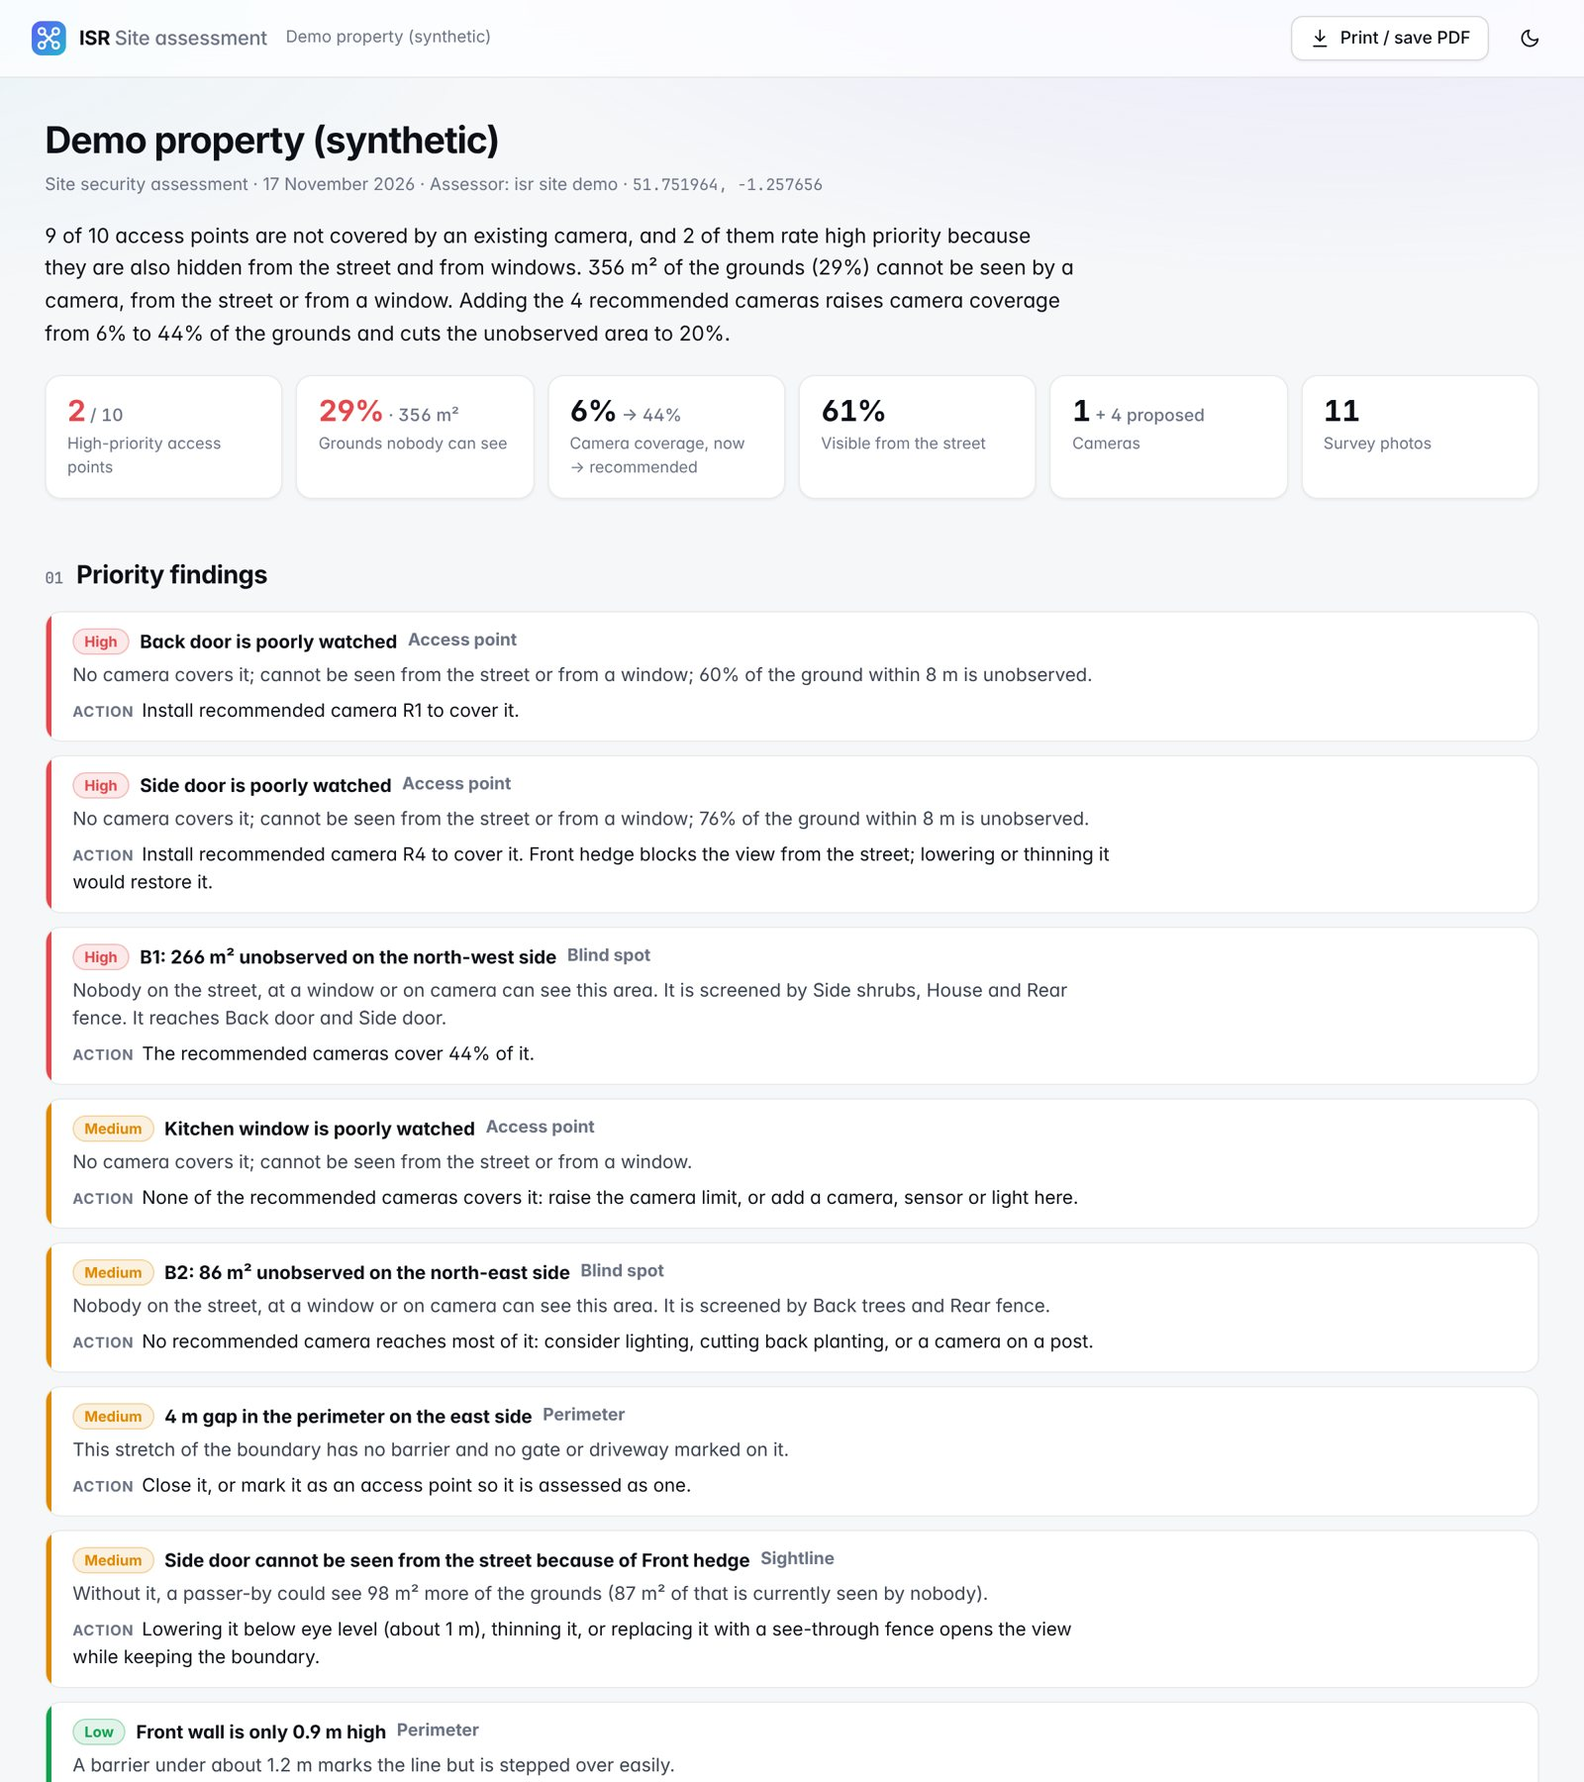
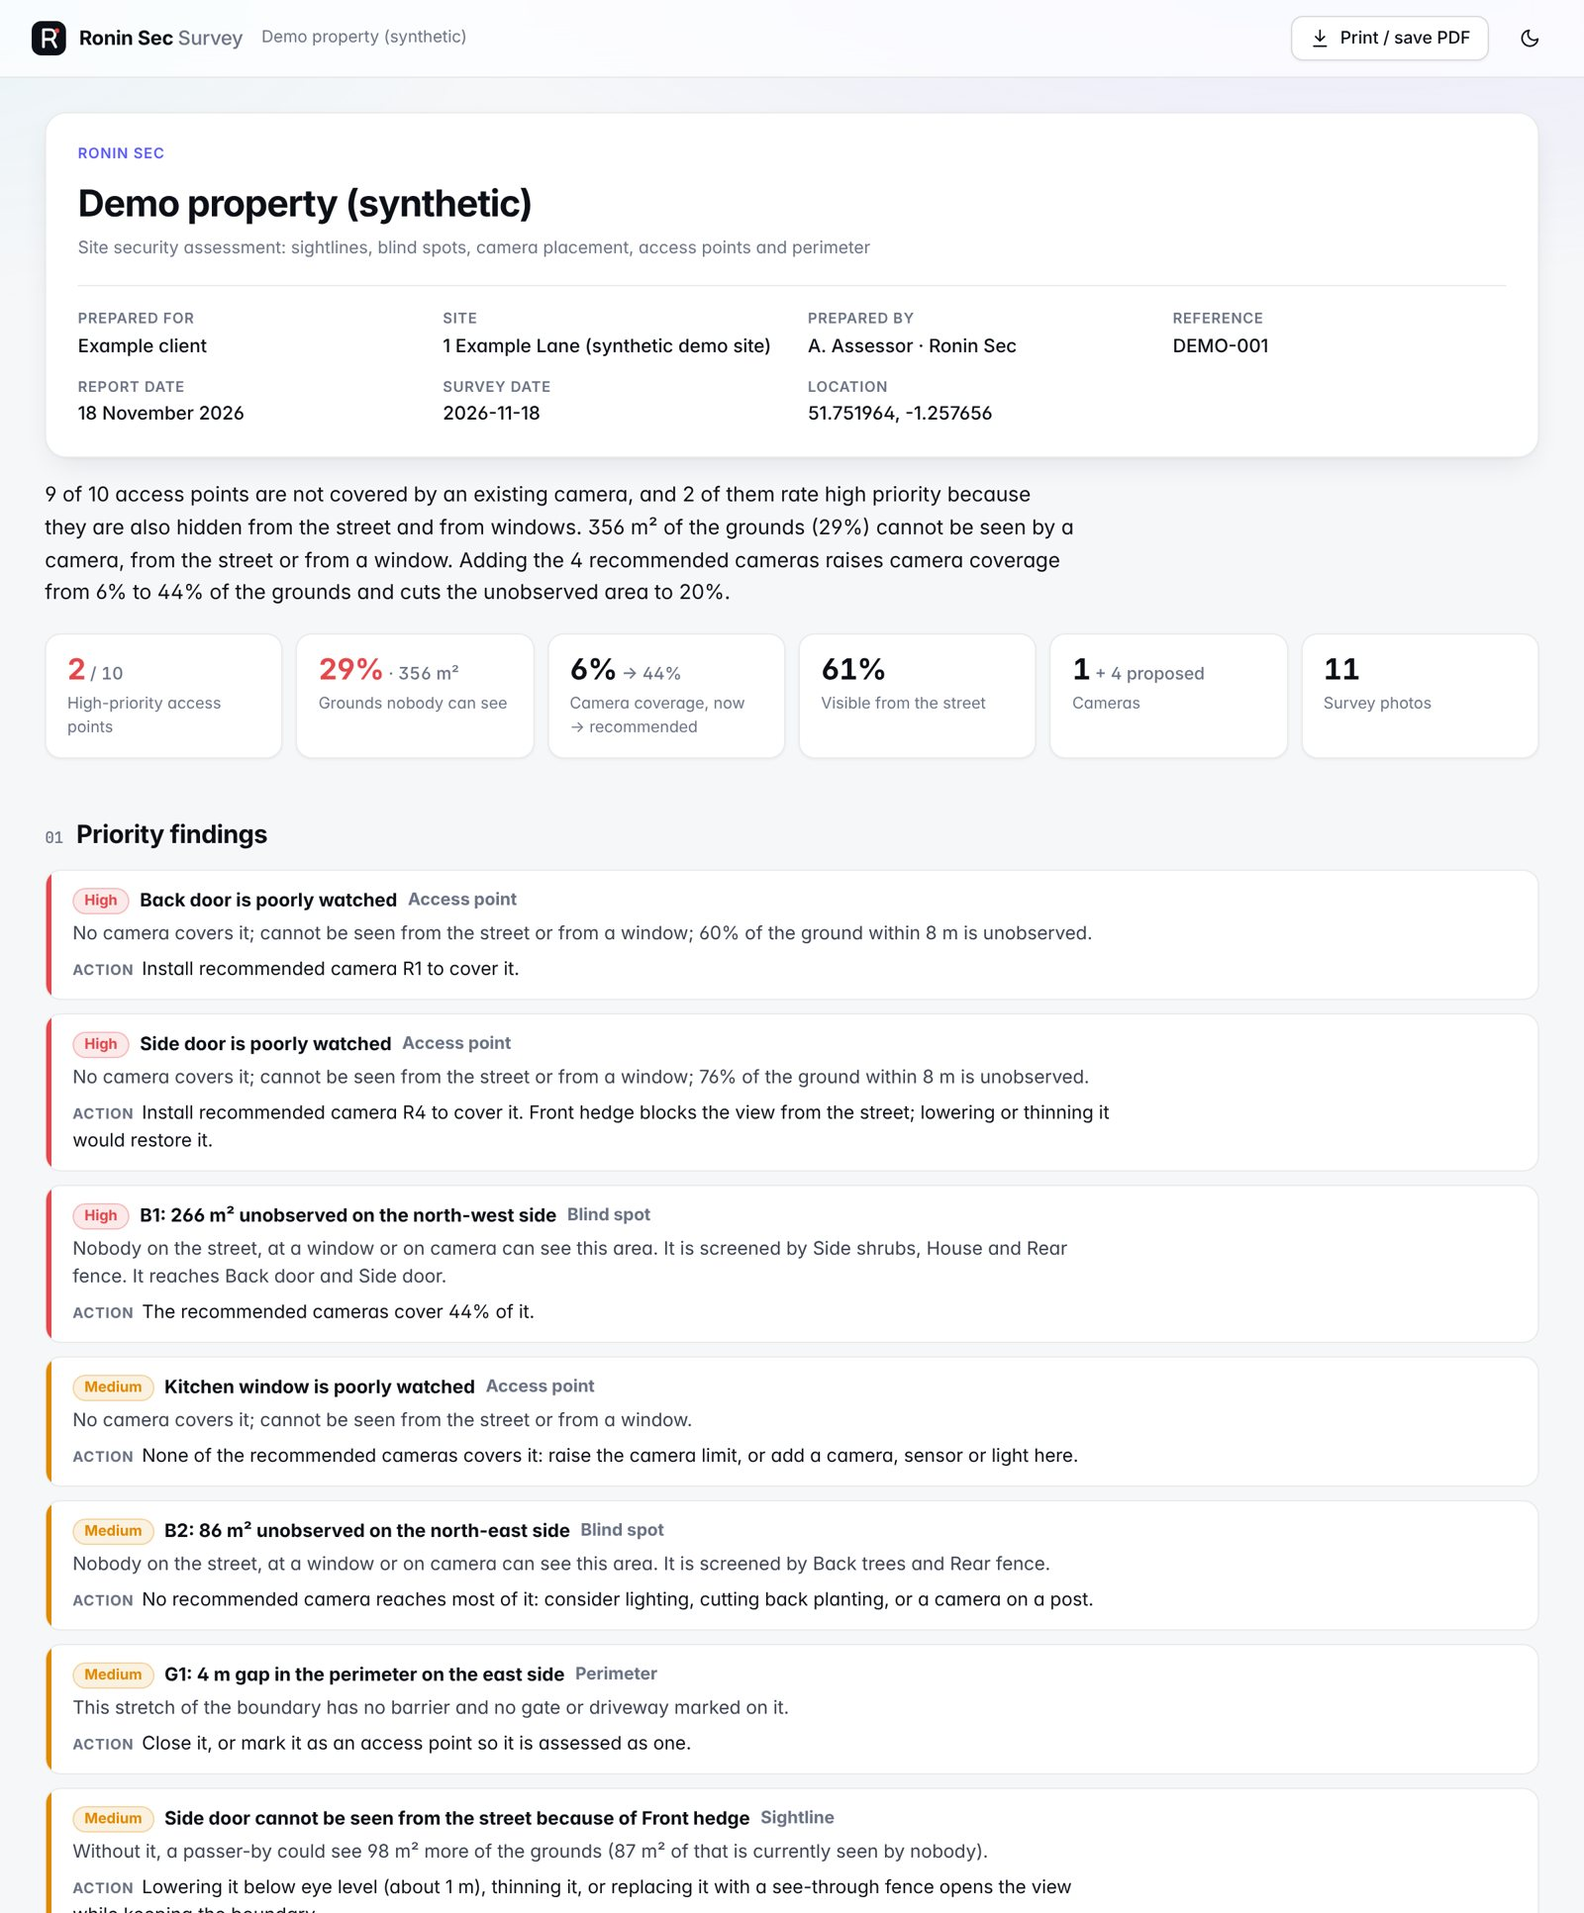
Brand the site assessment as Ronin Sec Survey
- editor and report carry the Ronin Sec name and mark; new projects are
  'Prepared by Ronin Sec' by default (editable per project)
- standalone 'survey' command (new / edit / report / demo); 'isr site'
  still works, and 'survey' remains an alias of 'new'
- README and screenshots updated

Claude-Session: https://claude.ai/code/session_01KpN253ihZSDuZ7tb2923ca

diff --git a/isr/site/editor.py b/isr/site/editor.py
@@ -8,7 +8,7 @@ from __future__ import annotations
 
 import json
 
-from ..ui import LOGO, page, theme_button
+from ..ui import page, theme_button
 from . import model as M
 
 CSS = r"""
@@ -87,7 +87,7 @@ body{display:flex;flex-direction:column;overflow:hidden}
 
 BODY = """
 <header class="topbar">
-  <div class="brand">__LOGO__<div class="brand-name">ISR <span>Site editor</span></div></div>
+  <div class="brand">__LOGO__<div class="brand-name">__BRAND__ <span>__APP__</span></div></div>
   <input id="name" aria-label="Site name" spellcheck="false">
   <div class="spacer"></div>
   <span id="status" role="status"></span>
@@ -475,7 +475,7 @@ function renderSettings() {
 }
 $("#p-settings").addEventListener("change", ev => { const t = ev.target;
   if (t.dataset.m) model[t.dataset.m] = t.value; else if (t.dataset.s) { const v = parseFloat(t.value); if (isFinite(v)) model.settings[t.dataset.s] = v; } else return; schedule(50); });
-$("#name").addEventListener("change", ev => { model.name = ev.target.value.trim() || "Site"; document.title = model.name + " · Site editor"; schedule(50); });
+$("#name").addEventListener("change", ev => { model.name = ev.target.value.trim() || "Site"; document.title = model.name + " · " + C.app; schedule(50); });
 
 function openPhoto(id) { const p = model.photos.find(p => p.id === id); if (!p) return; const lb = $("#lb");
   lb.querySelector("img").src = "/files/" + p.file; lb.querySelector("div div").textContent = p.name + (p.heading != null ? " · looking " + Math.round(p.heading) + "°" : "");
@@ -498,7 +498,7 @@ $("#layers").innerHTML = LAYERS.map(l => `<label><input type="checkbox" data-l="
 $("#layers").addEventListener("change", ev => { layers[ev.target.dataset.l] = ev.target.checked; renderBase(); render(); });
 (async () => {
   try { model = await (await fetch("/api/site")).json(); } catch (e) { setStatus("Cannot load the project", true); return; }
-  $("#name").value = model.name; document.title = model.name + " · Site editor";
+  $("#name").value = model.name; document.title = model.name + " · " + C.app;
   hist = [JSON.stringify(model.features)]; hi = 0;
   setTool("select"); renderBase(); fit(); renderResults(); renderProps(); renderSettings(); analyse();
 })();
@@ -507,11 +507,13 @@ $("#layers").addEventListener("change", ev => { layers[ev.target.dataset.l] = ev
 
 def editor_html() -> str:
     data = {
+        "app": f"{M.BRAND} {M.APP}",
         "geometry": M.GEOMETRY,
         "kind": M.KIND_LABEL,
         "barrier": M.BARRIER_TYPES,
         "access": {k: v[0] for k, v in M.ACCESS_TYPES.items()},
         "height": M.DEFAULT_HEIGHT,
     }
-    body = BODY.replace("__LOGO__", LOGO).replace("__THEME__", theme_button())
-    return page("Site editor", body, CSS, JS, json.loads(json.dumps(data)), default_theme="dark")
+    body = (BODY.replace("__LOGO__", M.BRAND_LOGO).replace("__THEME__", theme_button())
+            .replace("__BRAND__", M.BRAND).replace("__APP__", M.APP))
+    return page(f"{M.BRAND} {M.APP}", body, CSS, JS, json.loads(json.dumps(data)), default_theme="dark")

diff --git a/isr/cli.py b/isr/cli.py
@@ -263,7 +263,7 @@ def cmd_enhance(a) -> int:
 def _project(a) -> Path | None:
     d = Path(a.project).expanduser()
     if not (d / "site.json").exists():
-        print(f"error: {d} is not a site project (no site.json). Create one with: isr site survey PHOTOS -o {d}",
+        print(f"error: {d} is not a survey project (no site.json). Create one with: survey new PHOTOS -o {d}",
               file=sys.stderr)
         return None
     return d
@@ -272,7 +272,7 @@ def _project(a) -> Path | None:
 def cmd_site(a) -> int:
     from .site import model as SM
 
-    if a.action == "survey":
+    if a.action in ("new", "survey"):
         from .site.survey import run_survey
 
         src = Path(a.source).expanduser()
@@ -292,7 +292,7 @@ def cmd_site(a) -> int:
                   "    walls meet the ground. One photo taken straight down from above the site avoids this.")
         print(f"Project: {out}")
         if a.no_edit:
-            print(f"Next: isr site edit {out}")
+            print(f"Next: survey edit {out}")
             return 0
         a.project = str(out)
         a.action = "edit"
@@ -308,7 +308,7 @@ def cmd_site(a) -> int:
         if a.open:
             webbrowser.open(report.resolve().as_uri())
         if not a.edit:
-            print(f"Open it in the editor with: isr site edit {out}")
+            print(f"Open it in the editor with: survey edit {out}")
             return 0
         a.project, a.no_browser = str(out), False
 
@@ -449,7 +449,7 @@ def build_parser() -> argparse.ArgumentParser:
 
     si = sub.add_parser("site", help="site security assessment: survey photos -> site plan -> report")
     ss = si.add_subparsers(dest="action", required=True)
-    sv = ss.add_parser("survey", help="read hand-flown drone and walk-round photos, build the base map and open the editor",
+    sv = ss.add_parser("new", aliases=["survey"], help="read hand-flown drone and walk-round photos, build the base map and open the editor",
                        formatter_class=argparse.ArgumentDefaultsHelpFormatter)
     sv.add_argument("source", help="folder of photos (searched recursively)")
     sv.add_argument("-o", "--output", help="project folder (default ./site_<timestamp>); re-run to add photos")
@@ -482,6 +482,11 @@ def build_parser() -> argparse.ArgumentParser:
 def main(argv=None) -> int:
     a = build_parser().parse_args(argv)
     return a.func(a) or 0
+
+
+def survey_main(argv=None) -> int:
+    """The ``survey`` command: Ronin Sec Survey on its own, the same as ``isr site ...``."""
+    return main(["site", *(sys.argv[1:] if argv is None else argv)])
 
 
 if __name__ == "__main__":

diff --git a/isr/site/report.py b/isr/site/report.py
@@ -15,7 +15,7 @@ from pathlib import Path
 from xml.sax.saxutils import escape as x
 
 from ..geo import from_local
-from ..ui import LOGO, icon, page, theme_button
+from ..ui import icon, page, theme_button
 from . import model as M
 from .analysis import Analysis
 
@@ -305,11 +305,11 @@ def build_html(model: dict, an: Analysis) -> str:
     H = lambda t: f'<h2><span class="n">{next(sec):02d}</span>{t}</h2>'  # noqa: E731
     b = []
 
-    b.append(f'<header class="topbar"><div class="brand">{LOGO}<div class="brand-name">ISR <span>Site assessment</span></div></div>'
+    b.append(f'<header class="topbar"><div class="brand">{M.BRAND_LOGO}<div class="brand-name">{M.BRAND} <span>{M.APP}</span></div></div>'
              f'<div class="crumb">{h(model["name"])}</div><div class="spacer"></div>'
              f'<button class="btn" onclick="print()">{icon("download")}<span class="lbl">Print / save PDF</span></button>'
              f'{theme_button()}</header><div class="wrap">')
-    brand = h(model["company"]) if model.get("company") else "Site security assessment"
+    brand = h(model.get("company") or M.BRAND)
     b.append(f'<div class="cover"><div class="label">{brand}</div><h1>{h(model["name"])}</h1>'
              f'<div class="sub">Site security assessment: sightlines, blind spots, camera placement, access points '
              f'and perimeter</div><dl class="front">')
@@ -546,7 +546,8 @@ for being invisible from both the street and windows (2), and for unobserved gro
     b.append(f'<p class="foot">{"Prepared by " + h(by) + (" for " + h(model["client"]) if model.get("client") else "") + ". " if by else ""}'
              'This report describes what could be observed and measured from a photographic survey on the date shown. '
              'It identifies where the site is exposed and how that could be reduced; it is not a guarantee against '
-             'intrusion, and the recommendations should be confirmed on site before work is ordered.</p></div>')
+             'intrusion, and the recommendations should be confirmed on site before work is ordered. '
+             f'Produced with {M.BRAND} {M.APP}.</p></div>')
     return page(f"Site assessment: {h(model['name'])}", "".join(b), CSS, "", None, default_theme="light")
 
 

diff --git a/tests/test_site.py b/tests/test_site.py
@@ -99,6 +99,17 @@ def test_perimeter_gap_found():
     assert per["gaps"][0]["declared"] == "Pedestrian gate 1"
 
 
+def test_survey_command_and_default_branding(tmp_path, capsys):
+    from isr.cli import survey_main
+
+    assert M.new_model("x", (0, 0), (0, 0, 1, 1))["company"] == "Ronin Sec"
+    demo.write_obliques(tmp_path / "shots")
+    assert survey_main(["new", str(tmp_path / "shots"), "-o", str(tmp_path / "p"), "--no-edit"]) == 0
+    assert survey_main(["report", str(tmp_path / "p")]) == 0
+    assert "Ronin Sec" in (tmp_path / "p" / "report.html").read_text()
+    assert survey_main(["report", str(tmp_path / "missing")]) == 2
+
+
 def test_empty_and_partial_models_do_not_crash():
     for feats in ([], [LOT], [{"kind": "access", "subtype": "door", "pts": [[0, 0]]}],
                   [{"kind": "street", "pts": [[-20, -25], [20, -25]]}],
@@ -243,7 +254,7 @@ def test_report_and_exports(project):
     html = report.read_text()
     assert "<script src" not in html and "http://" not in html.replace("http://www.w3.org", "")
     for needle in ("Priority findings", "Side door", "Camera placement", "basemap.jpg", "report_assets/blind.png",
-                   "Prepared for", "Example client", "DEMO-001", "Open and unmarked", ">G1<"):
+                   "Prepared for", "Example client", "DEMO-001", "Ronin Sec", "Open and unmarked", ">G1<"):
         assert needle in html
     gj = json.loads((out / "site.geojson").read_text())
     kinds = {f["properties"]["kind"] for f in gj["features"]}
@@ -294,7 +305,7 @@ def test_editor_server(project):
 
     try:
         code, page = call("/")
-        assert code == 200 and b"Site editor" in page
+        assert code == 200 and b"Ronin Sec" in page
         code, body = call("/api/site")
         site = json.loads(body)
         assert code == 200 and len(site["features"]) == len(model["features"])

diff --git a/isr/site/model.py b/isr/site/model.py
@@ -32,6 +32,15 @@ from pathlib import Path
 
 VERSION = 1
 
+# Branding of the editor and the report. "Prepared by" on a report defaults to BRAND and can be changed per project.
+BRAND = "Ronin Sec"
+APP = "Survey"
+BRAND_LOGO = ('<svg class="logo" width="26" height="26" viewBox="0 0 32 32" aria-hidden="true">'
+              '<rect width="32" height="32" rx="9" fill="#0d1117"/>'
+              '<path d="M11 24V8h6.2a4.6 4.6 0 0 1 1.5 8.95L22.5 24M11 17h6.2" fill="none" stroke="#fff" '
+              'stroke-width="2.6" stroke-linecap="round" stroke-linejoin="round"/>'
+              '<circle cx="23.5" cy="9" r="2.2" fill="#e5484d"/></svg>')
+
 DEFAULT_SETTINGS = {
     "cell_m": 0.5,  # analysis grid
     "camera_height_m": 2.7,  # mounting height for recommended cameras
@@ -70,7 +79,7 @@ DEFAULT_HEIGHT = {"building": 6.0, "vegetation": 3.0}
 
 
 def new_model(name: str, origin: tuple[float, float], bounds, basemap=None, photos=None) -> dict:
-    return {"version": VERSION, "name": name, "assessor": "", "notes": "",
+    return {"version": VERSION, "name": name, "assessor": "", "company": BRAND, "notes": "",
             "origin": {"lat": origin[0], "lon": origin[1]}, "bounds": [round(float(b), 2) for b in bounds],
             "basemap": basemap, "settings": dict(DEFAULT_SETTINGS), "features": [], "photos": photos or []}
 

diff --git a/isr/site/server.py b/isr/site/server.py
@@ -107,7 +107,7 @@ def make_server(project: Path, port: int = 8765) -> ThreadingHTTPServer:
 def serve(project: Path, port: int = 8765, open_browser: bool = True) -> None:
     srv = make_server(project, port)
     url = f"http://127.0.0.1:{srv.server_address[1]}/"
-    print(f"Site editor: {url}\nEverything you draw is saved to {Path(project) / 'site.json'}. Press Ctrl+C to stop.")
+    print(f"{M.BRAND} {M.APP} editor: {url}\nEverything you draw is saved to {Path(project) / 'site.json'}. Press Ctrl+C to stop.")
     if open_browser:
         import webbrowser
         threading.Timer(0.4, webbrowser.open, args=(url,)).start()

diff --git a/isr/site/demo.py b/isr/site/demo.py
@@ -268,7 +268,7 @@ def build_demo(out: Path, log=print) -> dict:
     model = run_survey(out / "source_photos", out, name="Demo property (synthetic)", log=log)
     model["features"] = demo_features()
     model["assessor"] = "A. Assessor"
-    model["company"] = "Example Security Surveys"
+    model["company"] = M.BRAND
     model["client"] = "Example client"
     model["address"] = "1 Example Lane (synthetic demo site)"
     model["reference"] = "DEMO-001"

diff --git a/README.md b/README.md
@@ -14,7 +14,7 @@ Offline field and studio tools for a Mavic 3 + DJI RC (the site assessment also 
 4. **`isr enhance`**: light, professional automatic touch-ups (white balance, dehaze, tone, clarity,
    vibrance, horizon straightening, sharpening) written to new files with all metadata kept.
 
-5. **`isr site`**: a site security assessment. Walk or fly a property, drop the photos in, trace the
+5. **`survey`** (Ronin Sec Survey): a site security assessment. Walk or fly a property, drop the photos in, trace the
    plan over the stitched aerial image, and get a report of sightlines, blind spots, camera
    placement and access points.
 
@@ -333,14 +333,16 @@ from the DNG in Lightroom or Capture One. Studio's ranking is still the fast way
 
 ---
 
-## Site security assessment
+## Survey: site security assessment
+
+**Ronin Sec Survey.** Installed as its own command, `survey` (the same thing as `isr site`).
 
 For a property you own or are responsible for: where can someone approach unseen, which doors and
 gates are unwatched, and where would cameras do the most good.
 
 ```bash
-isr site demo --edit            # a made-up property, to see how it works
-isr site survey E:\DCIM -o my_site --name "12 Mill Lane"
+survey demo --edit               # a made-up property, to see how it works
+survey new E:\DCIM -o my_site --name "12 Mill Lane"
 ```
 
 ![Site editor](docs/site_editor.jpg)
@@ -367,7 +369,7 @@ photo positions as a guide.
 
 ### 2. Draw the plan
 
-`isr site survey` builds the base map and opens the editor in your browser (a page served from
+`survey new` builds the base map and opens the editor in your browser (a page served from
 your own machine at `127.0.0.1`; nothing is uploaded). Trace what you see:
 
 | Tool | Key | Draw |
@@ -385,12 +387,12 @@ Double-click or `Enter` finishes a shape, `Esc` cancels, `Delete` removes the se
 to `site.json` and the findings on the right update as you draw, so you can try things: lower a
 hedge, move a camera, add a recommended camera to the plan and see what is still unseen.
 
-Re-run `isr site survey` on the same project folder to add photos; the plan is kept.
-`isr site edit my_site` reopens it later.
+Re-run `survey new` on the same project folder to add photos; the plan is kept.
+`survey edit my_site` reopens it later.
 
 ### 3. Report
 
-**Generate report** (or `isr site report my_site --open`) writes into the project folder:
+**Generate report** (or `survey report my_site --open`) writes into the project folder:
 
 | File | Use |
 |---|---|
@@ -401,8 +403,9 @@ Re-run `isr site survey` on the same project folder to add photos; the plan is k
 
 ![Site report](docs/site_report.jpg)
 
-Fill in the client, site address, your company, name and a job reference under **Site** in the
-editor; they head the report. Notes typed against any item (a damaged fence panel, a gate that does
+Reports are headed **Ronin Sec** by default. Fill in the client, site address, your name and a job
+reference under **Site** in the editor (and change "Prepared by" there if a job goes out under
+another name). Notes typed against any item (a damaged fence panel, a gate that does
 not latch) are printed beside it.
 
 The report covers:
@@ -439,7 +442,7 @@ account: a camera at 2.7 m sees over a 1.2 m garden wall, a passer-by does not s
 
 ```bash
 isr info photo.JPG       # show what the tools read from a photo (GPS, altitude, gimbal, scale)
-isr site survey --help
+survey new --help
 isr triage --help
 isr plan grid --help
 ```
